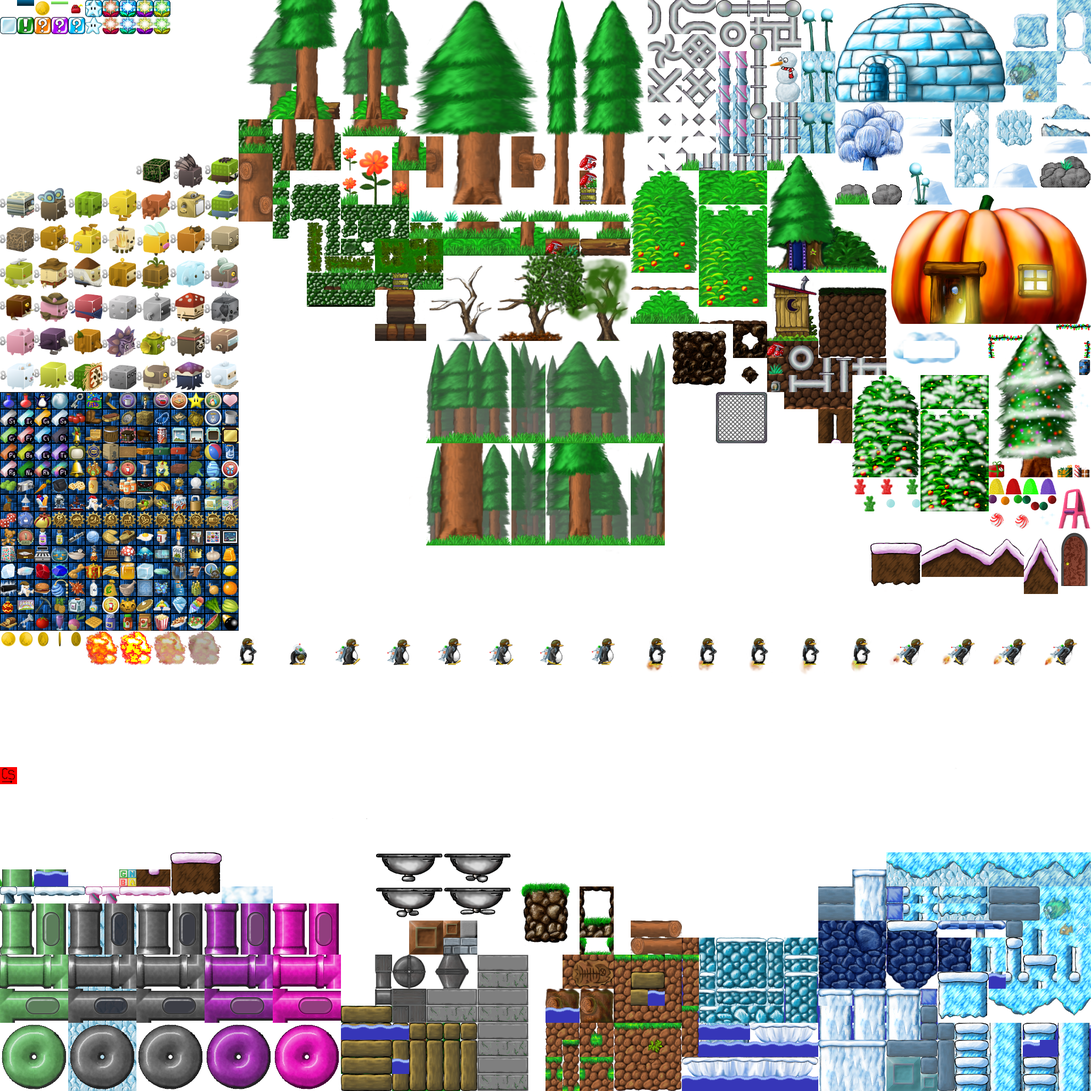
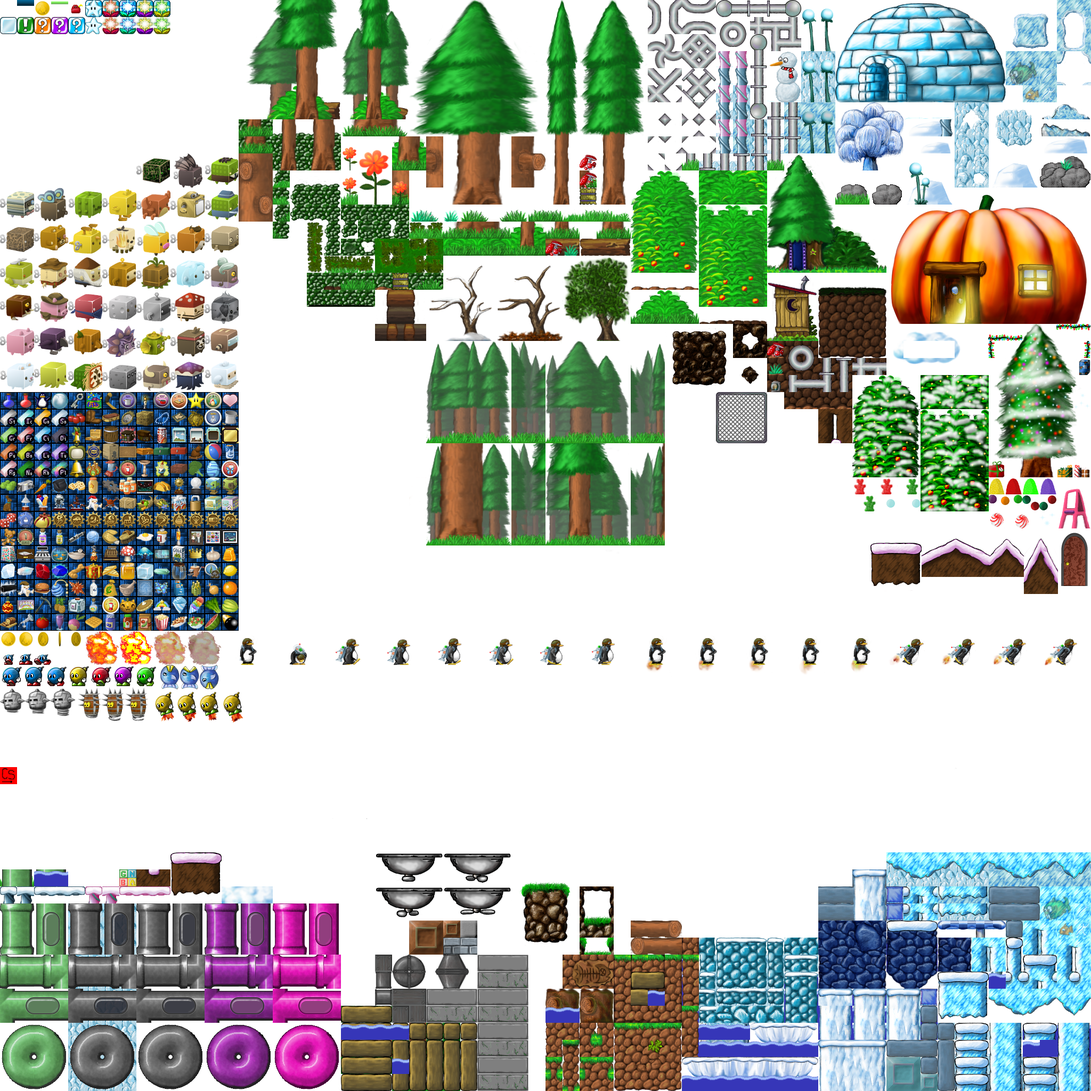
- Added basic enemy spawning mechanic framework, some enemies to the sprite sheet, and the update function for the hopping type enemies.

Changed region(s): [[0.0, 0.5938, 0.2188, 0.6562], [0.4688, 0.2188, 0.5938, 0.3125]]

diff --git a/src/game.js b/src/game.js
@@ -61,6 +61,10 @@ RocketTux.Game.prototype = {
     this.blkQuestSnd = this.game.add.audio('blk-quest');
     this.itemsCollected = [];
     
+    // Add group for enemies
+    this.enemyWalkers = this.game.add.group();
+    this.enemyHoppers = this.game.add.group();
+    this.enemyFlyers = this.game.add.group();
     
     // Add boosts
     this.boosts = Math.max(2, (Math.floor(this.mapSections / 4))) + RocketTux.bonusBoosts; // At least 2 + bonus
@@ -118,6 +122,9 @@ RocketTux.Game.prototype = {
     this.spawnEntities();
     this.game.world.bringToTop(this.blocks);
     this.game.world.bringToTop(this.coins);
+    this.game.world.bringToTop(this.enemyWalkers);
+    this.game.world.bringToTop(this.enemyHoppers);
+    this.game.world.bringToTop(this.enemyFlyers);
     
     // Put player up front
     this.player.bringToTop();
@@ -183,6 +190,9 @@ RocketTux.Game.prototype = {
       
     this.game.physics.arcade.collide(this.player, this.theLevel);
     this.game.physics.arcade.collide(this.coins, this.theLevel);
+    this.game.physics.arcade.collide(this.enemyWalkers, this.theLevel);
+    this.game.physics.arcade.collide(this.enemyHoppers, this.theLevel);
+    this.game.physics.arcade.collide(this.enemyFlyers, this.theLevel);
     this.game.physics.arcade.overlap(this.player, this.coins, this.collectCoin, null, this);
     this.game.physics.arcade.overlap(this.player, this.blocks, this.openBlock, null, this);
     
@@ -496,6 +506,7 @@ RocketTux.Game.prototype = {
         var columns = this.mapSections * 40; // 32px tiles
         var powerup = false;
         var quest = false;
+        var badguySpacer = 0;
 
         for (var i = 5; i < columns; i++){
             if (this.roll() > 78){
@@ -557,12 +568,74 @@ RocketTux.Game.prototype = {
                         this.coinsInLevel++;
                     }
                     
-                    if (this.roll() > 90){
-                        // Spawn an enemy here too
+                    if (this.roll() > 50 && badguySpacer > 6){
+                        badguySpacer = 0;
+                        var name = RocketTux.badguyConfig[this.theme][Math.floor(Math.random() * RocketTux.badguyConfig[this.theme].length)];
+                        this.spawnBadGuy(name, posX, posY);
                     }
+                    
+                    badguySpacer++;
                 }
             }
         }
+  },
+  spawnBadGuy: function(name, posX, posY){
+    if (name == undefined)
+        return;
+      
+    // Values
+    var type = RocketTux.badguyConfig[name].type;
+    var gravity = RocketTux.badguyConfig[name].gravity;
+    var frames = RocketTux.badguyConfig[name].frames;
+    var fps = RocketTux.badguyConfig[name].fps;
+    
+    name+= '-';
+    
+    // Spawn into one of the groups and schedule a status update
+    if (type == 'walker'){
+        badguy = this.enemyWalkers.create(posX, posY, 'atlas');
+        badguy.animations.add('move', Phaser.Animation.generateFrameNames(name, 0, frames), fps, true);
+        badguy.animations.play('move');
+        badguy.anchor.setTo(0.5,0.5);
+        this.setPhysicsProperties(badguy, gravity, 0, 0, 0, 0, 0);
+        badguy.body.velocity.x = -90;
+        //this.game.time.events.add(Phaser.Timer.SECOND * 5, this.doWalkerUpdate, this);
+    } else if (type == 'hopper'){
+        badguy = this.enemyHoppers.create(posX, posY, 'atlas');
+        badguy.animations.add('move', Phaser.Animation.generateFrameNames(name, 0, frames), fps, true);
+        name+= '0';
+        badguy.animations.add('sit', [name], 0, true);
+        badguy.animations.play('sit');
+        badguy.anchor.setTo(0.5,0.5);
+        this.setPhysicsProperties(badguy, gravity, 0, 0, 0, 0, 0);
+        this.game.time.events.add(Phaser.Timer.SECOND * 5, this.doHop, this);
+    } else if (type == 'flyer'){
+        badguy = this.enemyFlyers.create(posX, posY, 'atlas');
+        badguy.animations.add('move', Phaser.Animation.generateFrameNames(name, 0, frames), fps, true);
+        badguy.animations.play('move');
+        badguy.anchor.setTo(0.5,0.5);
+        this.setPhysicsProperties(badguy, gravity, 0, 0, 0, 0, 0);
+        badguy.body.velocity.x = -200;
+        //this.game.time.events.add(Phaser.Timer.SECOND * 5, this.doFlyerUpdate, this);
+    }
+    
+    //console.log("Spawned %s at %s, %s", name, posX, posY);
+  },
+  doHop: function(){
+    for (var i = 0, len = this.enemyHoppers.children.length; i < len; i++) {
+        if (this.roll() > 49) // Help prevent them from all hopping at the same time
+            continue;
+        
+        if (this.enemyHoppers.children[i].body.blocked.down){
+            this.enemyHoppers.children[i].body.velocity.y = -200;
+            this.enemyHoppers.children[i].animations.play('move');
+        } else {
+            this.enemyHoppers.children[i].animations.play('sit');
+        }
+    }
+    
+    var rng = Math.max(1, 5 * Math.random());
+    this.game.time.events.add(Phaser.Timer.SECOND * rng, this.doHop, this);
   },
   collectCoin: function(player, coin) {
     // Removes the coin from the screen

diff --git a/src/preload.js b/src/preload.js
@@ -69,6 +69,32 @@ RocketTux.Preload.prototype = {
         levelSectionsMax: 12, // Unlocks: Upto +3
     };
     
+    // Data used for spawning enemeies
+    RocketTux.badguyConfig = {
+        // Spawn groups
+        snow1:['badguy-2'],
+        snow2:['badguy-2'],
+        snow3:['badguy-2'],
+        forest1:['badguy-2'],
+        forest2:['badguy-2'],
+        beach1:['badguy-2'],
+        beach1:['badguy-2'],
+        candyland:['badguy-2'],
+        // Personal details
+        'badguy-1':{
+            type: 'walker',
+            gravity: 200,
+            frames: 2,
+            fps: 5
+        },
+        'badguy-2':{
+            type: 'hopper',
+            gravity: 200,
+            frames: 2,
+            fps: 5
+        },
+    }
+    
     // Powerup state
     RocketTux.powerUpActive = 'none';
     var tmpPwrup = localStorage.getItem('RocketTux-powerUpActive');
